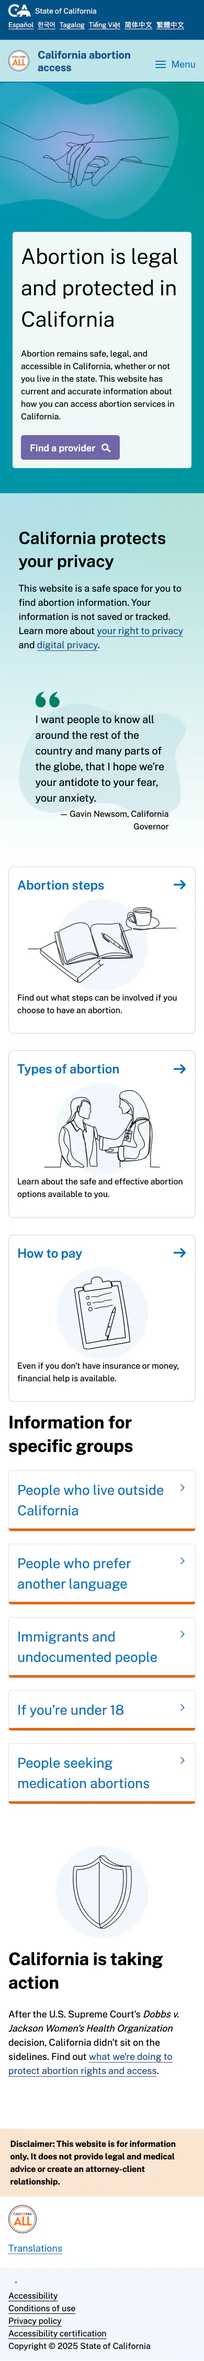
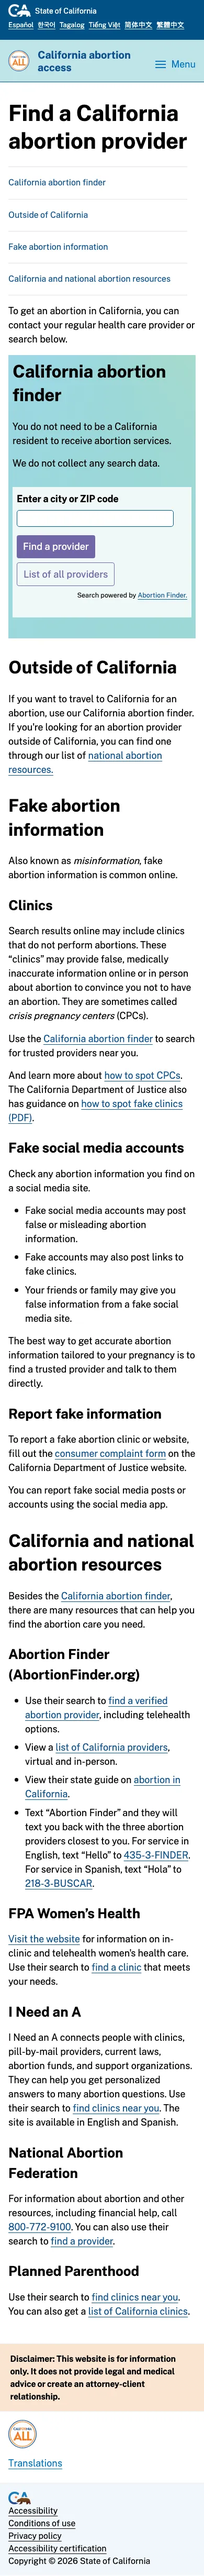
Replace Wayback screenshots with captures from the S3 archive.

diff --git a/_entries/work-abortion-ca-gov.md b/_entries/work-abortion-ca-gov.md
@@ -6,14 +6,12 @@ venue: California Office of Data and Innovation
 tags: [ government ]
 ---
 
-![abortion.ca.gov home page on desktop: "California abortion access" header, a hero reading "Abortion is legal and protected in California" with a Find a provider button, and cards for abortion steps, types of abortion and how to pay]({{ '/files/work-abortion-ca-gov/abortion-ca-gov-desktop.webp' | relative_url }}){: width="1440" height="2501" loading="lazy" decoding="async"}
+![abortion.ca.gov "Find a California abortion provider" page on desktop: an "On this page" sidebar, the California abortion finder with a city or ZIP code search, and sections on fake abortion information and national abortion resources]({{ '/files/work-abortion-ca-gov/abortion-ca-gov-desktop.webp' | relative_url }}){: width="1440" height="3410" loading="lazy" decoding="async"}
 
-Screenshot from the Internet Archive, captured March 4, 2025.
+![abortion.ca.gov "Find a California abortion provider" page on a phone, the same content stacked in a single column]({{ '/files/work-abortion-ca-gov/abortion-ca-gov-mobile.webp' | relative_url }}){: width="390" height="4919" loading="lazy" decoding="async"}
 
-![abortion.ca.gov home page on a phone, the same content stacked in a single column]({{ '/files/work-abortion-ca-gov/abortion-ca-gov-mobile.webp' | relative_url }}){: width="390" height="4509" loading="lazy" decoding="async"}
+Screenshots captured October 9, 2026 from the archived copy of the site.
 
-Screenshot from the Internet Archive, captured March 4, 2025.
-
-Source: [abortion.ca.gov on the Internet Archive](https://web.archive.org/web/20250304215941/https://abortion.ca.gov/)
+Source: [abortion.ca.gov archive: Find a provider](http://abortion.ca.gov.s3-website-us-west-1.amazonaws.com/find-a-provider/)
 
 The domain now redirects to <https://www.cdph.ca.gov/programs/ohe/abortion/pages/home.aspx>.
